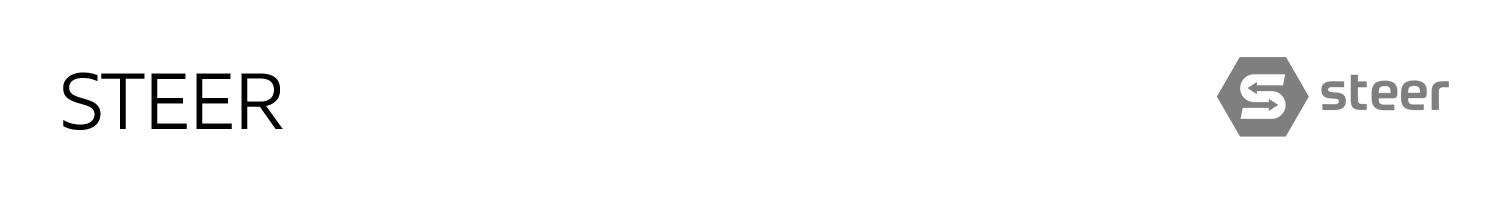
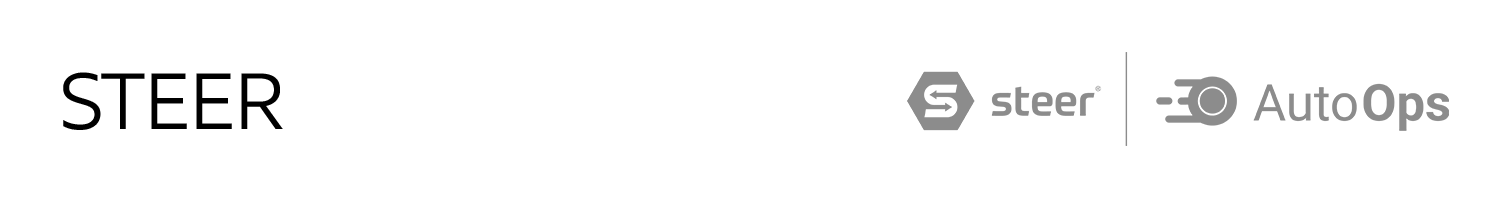
Updated for newest changelog

Changed region(s): [[0.5934, 0.2741, 0.9681, 0.7005]]

diff --git a/pages/hotwheels.js b/pages/hotwheels.js
@@ -10,15 +10,15 @@ export default function HotWheels() {
     paragraph: (
       <>
         Since 1968, Hot Wheels has been a global phenomenon capturing the<br />
-        imagination of both kids and adults. The Mobil 1™ brand shares in the<br />
-        excitement of the limitless possibilities Hot Wheels inspires. As part of our<br />
-        sponsorship, we have worked alongside well-known automotive personalities<br />
-        like Patrick Long and Ryan Tuerck to develop projects like Long’s Mobil 1 Porsche<br />
-        Dirtmeister 914 Safari, and Tuerck’s Toyota Stout Drift Truck. Since 2018, the Hot<br />
-        Wheels Legends Tour presented by Mobil 1 has celebrated custom car culture and<br />
-        offered enthusiasts a platform to showcase their unique, hand-crafted builds.These<br />
-        programs, as well as numerous contests and giveaways, provide Retailers with a world<br/>
-        of fun and imaginative opportunities for all demographics.
+        imagination of both kids and adults. The Mobil 1™ brand shares in the excitement<br />
+        of the limitless possibilities Hot Wheels inspires. As part of our sponsorship, we have<br />
+        worked alongside well-known automotive personalities like Patrick Long and Ryan<br />
+        Tuerck to develop projects like Long’s Mobil 1 Porsche Dirtmeister 944 and the Mobil 1<br />
+        Porsche 914 Safari, and Tuerck’s Toyota Stout Drift Truck. Since 2018, the Hot Wheels<br />
+        Legends Tour presented by Mobil 1 has celebrated custom car culture and offered enthusiasts<br />
+        a platform to showcase their their unique, hand-crafted builds. These programs, as well as<br />
+        numerous contests and giveaways, provide Retailers with a world of fun and imaginative<br/>
+        opportunities for all demographics.
       </>
     ),
     paragraphMt: '2vw',

diff --git a/pages/steer.js b/pages/steer.js
@@ -7,14 +7,15 @@ export default function Steer() {
   const partnerData = {
     headerImage: '/images/steer-header.png',
     headerMt: '-2vw',
+    headerWidth: '22vw',
     paragraph: (
       <>
         Steer is an industry-leading shop marketing and communications<br />
-        platform designed to bring customers to shops, and grow shop sales<br />
+        platform designed to bring customers to shops and grow shop sales<br />
         through increased car count and ticket averages. As part of the<br />
         long-term collaboration with Steer, the Mobil marketing team is working with<br />
         Steer to deliver new fluid service communications aimed at increasing consumer<br />
-        engagement, knowledge, and usage of Mobil 1™ products.<br />
+        engagement, knowledge and usage of Mobil 1™ products.<br />
         <span style={{ display: 'block', marginBottom: '1vw' }}></span>
         Also, Steer and the industry-leading shop scheduling platform called Auto Ops have just<br />
         merged, allowing consumers to easily book Mobil 1™ oil changes. Learn more about these<br />
@@ -51,6 +52,7 @@ export default function Steer() {
       <PartnerPage
         headerImage={partnerData.headerImage}
         headerMt={partnerData.headerMt}
+        headerWidth={partnerData.headerWidth}
         paragraph={partnerData.paragraph}
         paragraphMt={partnerData.paragraphMt}
         paragraphTextSize={partnerData.paragraphTextSize}

diff --git a/pages/rocketleague.js b/pages/rocketleague.js
@@ -12,12 +12,12 @@ export default function RocketLeague() {
         Rocket League is an arcade-style, automotive soccer game that allows<br />
         millions of players to drive for the win. The Mobil 1™ brand has joined forces<br />
         with Rocket League to bring together the worlds of gaming and performance.<br />
-        This is achieved through in-game items and decals, and real-life giveaways.<br />
-        Additionally, the well-known North American Rocket League team, GenG Mobil 1<br />
-        Racing, was formed as a result of a sponsorship between American eSports<br />
+        This is achieved through in-game items and decals and real-life giveaways.<br />
+        Additionally, the well-known North American Rocket League team GenG Mobil 1<br />
+        Racing was formed as a result of a sponsorship between American eSports<br />
         organization Gen.G eSports and the Mobil 1 brand. The seamless integration of the<br />
         Mobil 1 brand into a video game with an extensive reach allows sponsors to tap into a<br />
-        young, dynamic, and engaged audience.
+        young, dynamic and engaged audience.
       </>
     ),
     paragraphMt: '2.5vw',

diff --git a/pages/xoverland.js b/pages/xoverland.js
@@ -13,9 +13,9 @@ export default function XOverland() {
         adventure-themed overlanding content with authentic individuals. In the<br />
         network’s Creator Series driven by Mobil 1™, ordinary people doing extraordinary<br />
         things have earned over a million hours viewed to date. Content includes series like<br />
-        <i>Desk to Glory</i>, <i>We Will Roam</i>, and <i>Bound for Nowhere</i>, in which overlanders document<br />
+        <i>Desk to Glory</i>, <i>We Will Roam and Bound</i>, and <i>Bound for Nowhere</i>, in which overlanders document<br />
         their global adventures with a unique twist. Other programs include <i>Roam Overland</i> in which<br />
-        an African overlander rediscovers his homeland, and <i>Gon Cookin’</i>, highlighting a guest’s favorite<br />
+        an African overlander rediscovers his homeland and <i>Gon Cookin’</i>, highlighting a guest’s favorite<br />
         dish adapted for camping. The Mobil 1™ brand shares the same spirit of adventure. As a Retailer,<br />
         you have the opportunity to align yourself with a demographic of outdoor enthusiasts who put<br />
         their vehicles to the test.

diff --git a/pages/oem/porsche.js b/pages/oem/porsche.js
@@ -10,14 +10,14 @@ export default function Porsche() {
     paragraph: (
       <>
         Porsche is synonymous with luxury, performance, and engineering<br />
-        excellence, and we share this vision. These teams have collaborated to<br />
+        excellence and we share this vision. These teams have collaborated to<br />
         develop content for the Rennsport Reunion, a gathering for Porsche<br />
         enthusiasts of all ages. The Mobil 1 DR1VRS CLUB℠ also hosted a 3-month<br />
         campaign to drive consumers to Porsche dealerships, in this case by giving away a<br />
         VIP trip to Pikes Peak International Hill Climb. The relationship between the Mobil 1™<br />
         brand and Porsche has also resulted in more than 30,000 victories on the track since<br />
         its inception. Retailers can align themselves with a brand that promotes meticulous car care<br />
-        inspires driving in the moment.
+        and inspires driving in the moment.
       </>
     ),
     paragraphMt: '3.5vw',

diff --git a/components/PartnerPage.js b/components/PartnerPage.js
@@ -5,6 +5,7 @@ import UserActivityContext from '../contexts/UserActivityContext';
 const PartnerPage = ({
   headerImage,
   headerMt,
+  headerWidth = '12vw',
   paragraph,
   paragraphMt,
   paragraphTextSize,
@@ -57,7 +58,7 @@ const PartnerPage = ({
           <img
             src={headerImage}
             alt="Header"
-            className="h-auto w-[12vw]"
+            style={{ width: headerWidth }}
           />
         </div>
 
@@ -132,7 +133,7 @@ const PartnerPage = ({
             <source src={fullScreenVideoSrc} type="video/mp4" />
             Your browser does not support the video tag.
           </video>
-          <button onClick={handleCloseModal} className="absolute top-7 right-16 text-white text-[100px]">
+          <button onClick={handleCloseModal} className="absolute top-5 right-10 text-white text-[3vw]">
             ✕
           </button>
         </div>

diff --git a/pages/products/index.js b/pages/products/index.js
@@ -2,11 +2,11 @@ import Link from 'next/link';
 import Header from 'components/Header';
 
 const menuItems = [
-  { text: 'Mobil 1™ Advanced Full Synthetic', link: '/products/fullSynthetic' },
-  { text: 'Mobil 1™ Classic Car', link: '/products/classicCar' },
+  { text: 'Advanced Full Synthetic', link: '/products/fullSynthetic' },
+  { text: 'Mobil 1 Racing™', link: '/products/racing' },
   { text: 'Truck & SUV', link: '/products/truckSUV' },
   { text: 'Advanced Fuel Economy', link: '/products/advancedFuelEconomy' },
-  { text: 'Mobil 1™ Racing', link: '/products/racing' },
+  { text: 'Classic Car', link: '/products/classicCar' },
   { text: 'Supercar', link: '/products/supercar' },
   { text: 'Extended Performance High Mileage', link: '/products/extendedPerformanceHM' },
   { text: 'Extended Performance', link: '/products/extendedPerformance' },

diff --git a/pages/redbullracing.js b/pages/redbullracing.js
@@ -16,7 +16,7 @@ export default function RedBullRacing() {
         stops around the country, inviting consumers to try their hand at being part of a pit crew.<br />
         Show runs allow spectators to witness the power of the brands up close and personal.<br />
         Through this sponsorship, Retailers have the opportunity to engage consumers through unique<br />
-        and exciting promotions. Promotions can be customized to fit each retailer go to market strategy<br/>
+        and exciting promotions. Promotions can be customized to fit each Retailer's go-to-market strategy<br/>
         and can include everything from Oracle Red Bull Racing branded merchandise to exclusive tours<br/>
         of the ORBR factory in London, UK.
       </>

diff --git a/pages/hagerty.js b/pages/hagerty.js
@@ -10,7 +10,7 @@ export default function Hagerty() {
     paragraph: (
       <>
         The relationship between Hagerty and the Mobil 1™ brand is dedicated<br />
-        to preserving automotive history and culture, protecting iconic vehicles for<br />
+        to preserving automotive history and culture and protecting iconic vehicles for<br />
         future generations by providing the essential care classic cars deserve. Together<br />
         we developed and premiered the documentary “Racing with Giants: Porsche at<br />
         Le Mans”, narrated by Le Mans podium finisher Patrick Dempsey, which currently<br />

diff --git a/contexts/UserActivityContext.js b/contexts/UserActivityContext.js
@@ -14,11 +14,10 @@ export const UserActivityProvider = ({ children }) => {
     };
 
     const handleInactivity = () => {
-      const currentPath = router.pathname;
-      const timeoutDuration = (currentPath === '/home' || currentPath === '/products') ? 120000 : 60000;
+      const timeoutDuration = 300000;
 
       // Redirect if inactivity exceeds the timeoutDuration and user is not on the landing page
-      if (Date.now() - lastActivityTime >= timeoutDuration && currentPath !== '/') {
+      if (Date.now() - lastActivityTime >= timeoutDuration && router.pathname !== '/') {
         router.push('/');
       }
     };

diff --git a/components/ProductPage.js b/components/ProductPage.js
@@ -165,7 +165,7 @@ const ProductPage = ({
             <source src={fullScreenVideoSrc} type="video/mp4" />
             Your browser does not support the video tag.
           </video>
-          <button onClick={handleCloseModal} className="absolute top-7 right-16 text-white text-[100px]">
+          <button onClick={handleCloseModal} className="absolute top-5 right-10 text-white text-[3vw]">
             ✕
           </button>
         </div>

diff --git a/pages/products/fullSynthetic.js b/pages/products/fullSynthetic.js
@@ -15,7 +15,7 @@ export default function FullSynthetic() {
         Engineered to help extend engine<br />
         life, even in severe driving conditions.<br />
         This advanced formula offers superior<br />
-        wear protection, cleaning power, and<br />
+        wear protection, cleaning power and<br />
         overall engine health for drivers who<br />
         demand the best in engine protection<br/>
         and performance.
